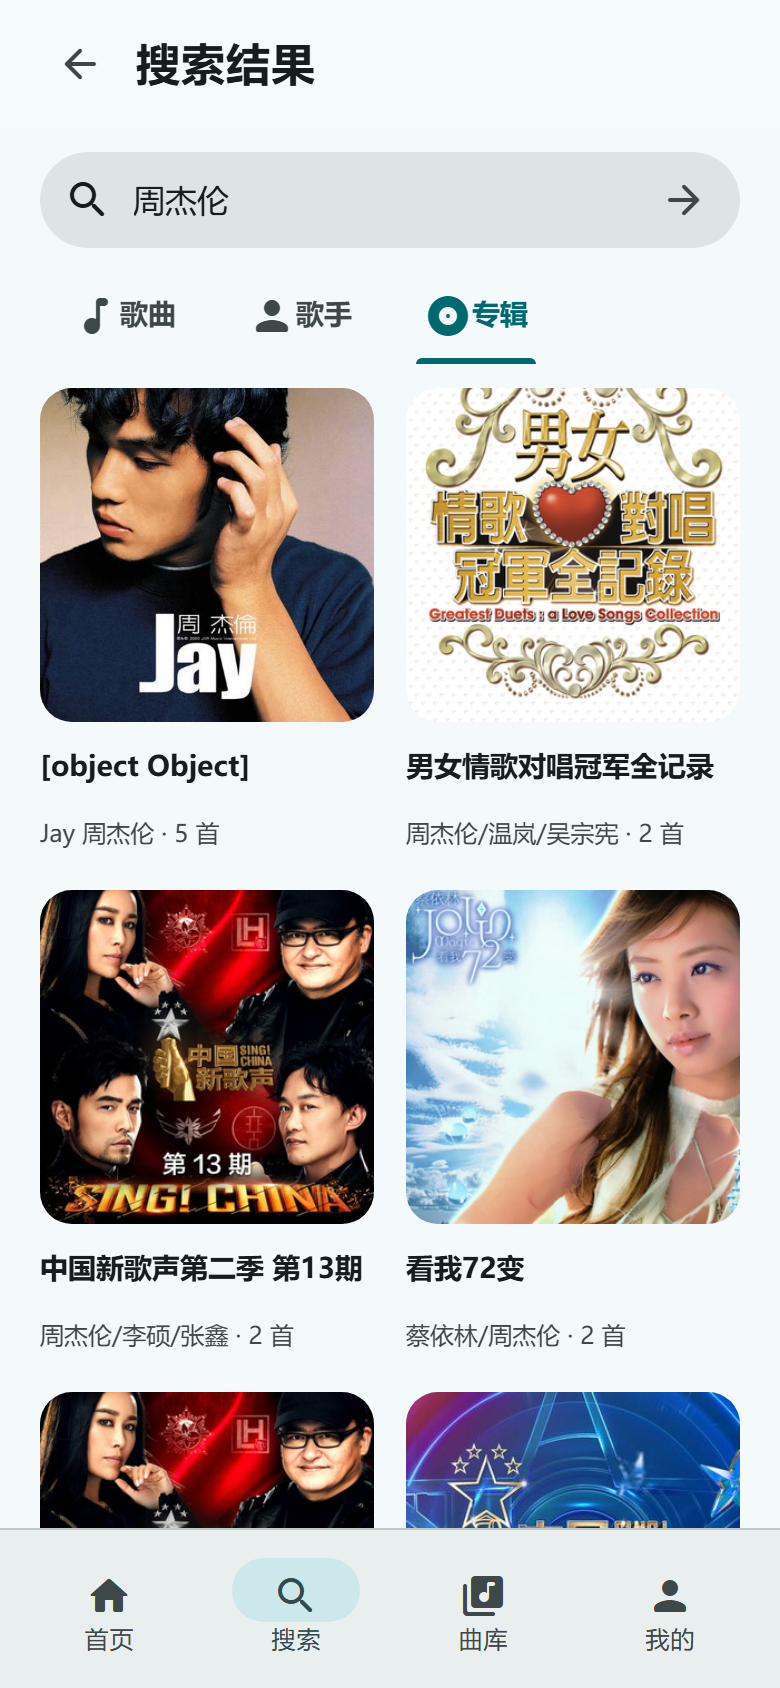
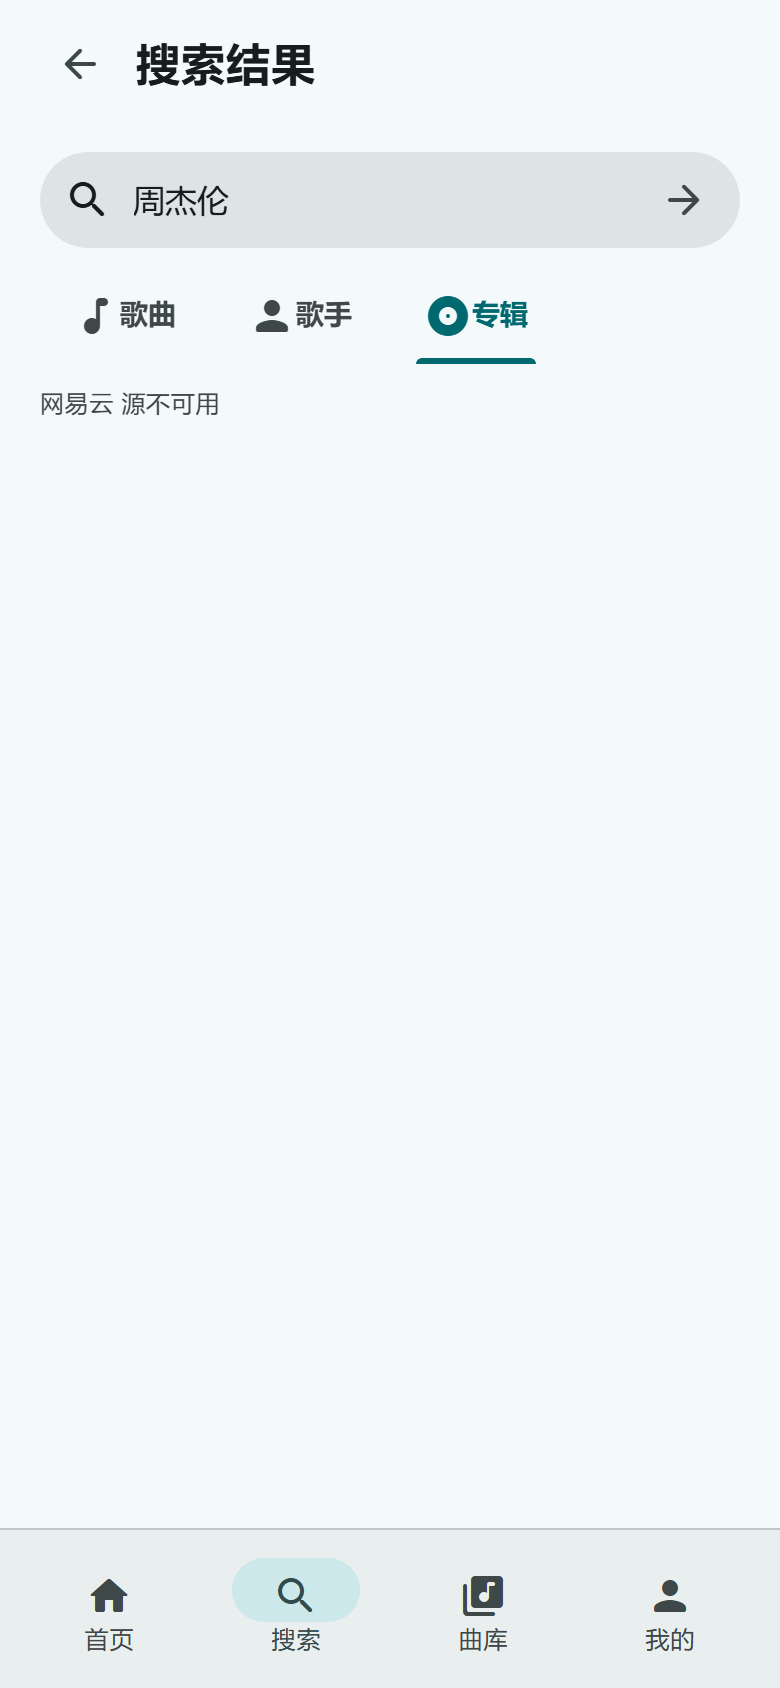
番外：专辑名与标题字段清洗、菜单定位、封面缩略图缓存

diff --git a/js/sources/audius.js b/js/sources/audius.js
@@ -1,5 +1,5 @@
 /* Audius：合法免费全曲源（api.audius.co，CORS 全开） */
-import { trackKey } from '../core/util.js';
+import { trackKey, textOf } from '../core/util.js';
 
 const BASE = 'https://api.audius.co/v1';
 const APP = 'Melody';
@@ -20,9 +20,9 @@ function toItem(track) {
   const artist = (track.user && (track.user.name || track.user.handle)) || 'Audius';
   return {
     id: trackKey(track.title, artist),
-    title: String(track.title || ''),
+    title: textOf(track.title),
     artist,
-    album: String(track.album_backlink || ''),
+    album: textOf(track.album_backlink),
     duration: Number(track.duration) || 0,
     artwork: artworkOf(track),
     sources: [{ source: 'audius', id: track.id, artwork: artworkOf(track), genre: track.genre || '' }],

diff --git a/js/sources/merge.js b/js/sources/merge.js
@@ -1,5 +1,5 @@
 /* 跨源合并：同歌名+同歌手视为同一首，来源挂成多路 */
-import { normalizeArtist } from '../core/util.js';
+import { normalizeArtist, textOf } from '../core/util.js';
 
 /**
  * @param {Array<{source: any, items: any[]}>} batches
@@ -30,7 +30,7 @@ export function mergeResults(batches) {
 export function groupAlbums(tracks) {
   const map = new Map();
   for (const track of tracks) {
-    const name = String(track.album || '').trim();
+    const name = textOf(track.album).trim();
     if (!name) continue;
     const key = name.toLowerCase();
     let entry = map.get(key);

diff --git a/tools/t-album-check.js b/tools/t-album-check.js
@@ -1,0 +1,7 @@
+(async () => {
+  await new Promise((r) => setTimeout(r, 3000));
+  document.querySelector('[data-tab="albums"]')?.click();
+  await new Promise((r) => setTimeout(r, 600));
+  const names = Array.from(document.querySelectorAll('[data-album] .tile__title')).map((n) => n.textContent.trim());
+  return { count: names.length, bad: names.filter((n) => n.includes('object')), first: names.slice(0, 4) };
+})()

diff --git a/docs/PLAN.md b/docs/PLAN.md
@@ -20,6 +20,11 @@
 | 视觉 | 无装饰性渐变；只用 M3 色板纯色 + 色调高度 | 用户明确不喜欢渐变 |
 | 首页布局 | 桌面端 680px 居中窄栏（品牌 + 搜索框 + 历史同一列） | 搜索是这一页的唯一主角 |
 | 封面取色顺序 | 先试能读像素的源（网易云/Audius），再逐个图片代理兜底 | QQ/酷狗 CDN 不带 ACAO |
+| 导航 | 底栏/侧栏**常驻**（含二级页），只有全屏播放器覆盖；离开页面缓存 DOM 与滚动位置 | 用户要求保留搜索状态 |
+| 一级页面 | 首页 / 搜索 / 曲库 / 我的（4 个） | 新增首页 |
+| 播放器 | 只有 mini 与全屏两档，半屏已移除 | 用户要求 |
+| 菜单 | 移动端底部抽屉，桌面端贴三点浮出（同一套 actions） | 用户要求统一逻辑 |
+| 封面 | 列表用 120px 缩略图并缓存进 IndexedDB，播放器先缩略图后全图 | 用户要求 |
 
 ## 二、技术事实（2026-11 实测，非推测）
 
